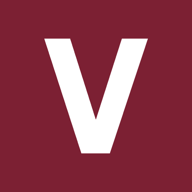
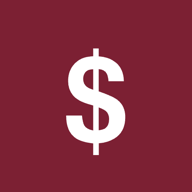
Rename to Money is Fun; add player cards, awards, and streaks
App is now Money is Fun (title, manifest, lock screen, new $ icon).
Home gets Clancy & Naomi player cards showing each one's fun-money left
with an 'in the lead' tag. New trophy button opens an Awards sheet with
ten earnable badges (snap counts, logging streaks, date nights, team
effort, under-budget months) computed live from the ledger. Saving a new
expense shows your logging streak.

Changed region(s): [[0.2188, 0.1875, 0.7812, 0.8125]]

diff --git a/index.html b/index.html
@@ -7,7 +7,7 @@
   <meta name="apple-mobile-web-app-capable" content="yes">
   <meta name="apple-mobile-web-app-status-bar-style" content="default">
   <meta name="theme-color" content="#FAF8F4">
-  <title>Velocity</title>
+  <title>Money is Fun</title>
   <link rel="manifest" href="/manifest.json">
   <link rel="apple-touch-icon" href="/icon-192.png">
   <link rel="preconnect" href="https://fonts.googleapis.com">
@@ -97,6 +97,29 @@
 
     .section-title { font-size: 13px; font-weight: 700; text-transform: uppercase; letter-spacing: 0.07em; color: var(--text-faint); margin: 22px 0 10px; display: flex; justify-content: space-between; align-items: center; }
     .section-title button { font-size: 12px; font-weight: 600; color: var(--wine); text-transform: none; letter-spacing: 0; }
+
+    /* Player cards */
+    .players { display: grid; grid-template-columns: 1fr 1fr; gap: 8px; margin-bottom: 18px; }
+    .player { background: var(--card); border-radius: var(--radius); padding: 12px 14px; text-align: left; box-shadow: 0 1px 2px rgba(0,0,0,0.04); min-width: 0; }
+    .player-head { display: flex; justify-content: space-between; align-items: baseline; }
+    .player-name { font-size: 12.5px; font-weight: 700; }
+    .player.clancy .player-name { color: var(--wine); }
+    .player.naomi .player-name { color: var(--naomi); }
+    .lead-tag { font-size: 9.5px; font-weight: 700; text-transform: uppercase; letter-spacing: 0.06em; color: var(--green); }
+    .player-fun { font-size: 20px; font-weight: 800; letter-spacing: -0.02em; margin: 2px 0 7px; }
+    .player-fun span { font-size: 11px; font-weight: 600; color: var(--text-faint); letter-spacing: 0; }
+    .player-sub { font-size: 11px; color: var(--text-faint); margin-top: 6px; }
+    .bar-fill.wine { background: var(--wine); }
+    .bar-fill.teal { background: var(--naomi); }
+
+    /* Awards */
+    .award-row { display: flex; align-items: center; gap: 14px; background: var(--card); border-radius: var(--radius); padding: 13px 16px; margin-bottom: 8px; box-shadow: 0 1px 2px rgba(0,0,0,0.04); }
+    .award-row.locked { opacity: 0.55; }
+    .award-medal { width: 38px; height: 38px; border-radius: 50%; flex-shrink: 0; display: flex; align-items: center; justify-content: center; background: var(--wine-soft); color: var(--wine); }
+    .award-row.locked .award-medal { background: var(--line); color: var(--text-faint); }
+    .award-name { font-size: 14.5px; font-weight: 700; }
+    .award-desc { font-size: 12px; color: var(--text-faint); margin-top: 1px; }
+    .award-prog { font-size: 11.5px; font-weight: 600; color: var(--text-mid); margin-left: auto; flex-shrink: 0; }
 
     /* Top-4 grid */
     .top-grid { display: grid; grid-template-columns: 1fr 1fr; gap: 8px; }
@@ -265,7 +288,7 @@
 
   <!-- Lock -->
   <div id="lock">
-    <div class="lock-logo">Velocity</div>
+    <div class="lock-logo">Money is Fun</div>
     <div class="lock-msg" id="lockMsg">Enter PIN</div>
     <div class="pin-dots" id="pinDots"></div>
     <div class="keypad" id="keypad"></div>
@@ -564,6 +587,29 @@ function renderHome() {
     return `<div class="top-card"><div class="top-name">${esc(c.replace('Biz: ', ''))}</div><div class="top-amt">${fmt0(spent)}</div>${bar}<div class="top-sub">${sub}</div></div>`;
   };
 
+  // Clancy & Naomi player cards — each one's fun-money budget this month
+  const playerCard = (p, cls, barCls) => {
+    const budget = state.budgets[`${p} Fun`] || 0;
+    const spentFun = txns.filter(t => t.category === `${p} Fun`).reduce((s, t) => s + Math.abs(t.amount), 0);
+    const left = Math.max(0, budget - spentFun);
+    const monthTotal = p === 'Clancy' ? cTotal : nTotal;
+    const pct = budget > 0 ? Math.min(100, spentFun / budget * 100) : 0;
+    return { p, cls, barCls, budget, spentFun, left, monthTotal, pct,
+      ratio: budget > 0 ? left / budget : 0 };
+  };
+  const pc = playerCard('Clancy', 'clancy', 'wine');
+  const pn = playerCard('Naomi', 'naomi', 'teal');
+  const leader = (pc.budget > 0 && pn.budget > 0 && pc.ratio !== pn.ratio)
+    ? (pc.ratio > pn.ratio ? 'Clancy' : 'Naomi') : null;
+  const playerHTML = d => `
+    <button class="player ${d.cls}" data-pfilter="${d.p}">
+      <div class="player-head"><div class="player-name">${d.p}</div>${leader === d.p ? '<div class="lead-tag">In the lead</div>' : ''}</div>
+      <div class="player-fun">${fmt0(d.left)} <span>fun left</span></div>
+      ${d.budget > 0 ? `<div class="bar" style="margin-top:0"><div class="bar-fill ${d.barCls}" style="width:${d.pct}%"></div></div>` : ''}
+      <div class="player-sub">${fmt0(d.monthTotal)} spent this month</div>
+    </button>`;
+  const playersHTML = `<div class="players">${playerHTML(pc)}${playerHTML(pn)}</div>`;
+
   const allHTML = groupSection('Personal', GROUPS.Personal) + groupSection('Business', GROUPS.Business);
   const catHTML = visible.size === 0
     ? `<div class="empty">Nothing yet this month.<br>Tap the camera to snap your first receipt.</div>`
@@ -575,10 +621,15 @@ function renderHome() {
 
   return `
     <div class="top-row">
-      <div class="brand">Velocity</div>
+      <div class="brand">Money is Fun</div>
+      <div style="display:flex">
+      <button class="icon-btn" id="btnAwards" aria-label="Awards">
+        <svg width="21" height="21" viewBox="0 0 24 24" fill="none" stroke="currentColor" stroke-width="2" stroke-linecap="round" stroke-linejoin="round"><circle cx="12" cy="8" r="6"/><path d="M15.477 12.89 17 22l-5-3-5 3 1.523-9.11"/></svg>
+      </button>
       <button class="icon-btn" id="btnSettings" aria-label="Settings">
         <svg width="21" height="21" viewBox="0 0 24 24" fill="none" stroke="currentColor" stroke-width="2" stroke-linecap="round" stroke-linejoin="round"><circle cx="12" cy="12" r="3"/><path d="M19.4 15a1.65 1.65 0 0 0 .33 1.82l.06.06a2 2 0 1 1-2.83 2.83l-.06-.06a1.65 1.65 0 0 0-1.82-.33 1.65 1.65 0 0 0-1 1.51V21a2 2 0 1 1-4 0v-.09a1.65 1.65 0 0 0-1-1.51 1.65 1.65 0 0 0-1.82.33l-.06.06a2 2 0 1 1-2.83-2.83l.06-.06a1.65 1.65 0 0 0 .33-1.82 1.65 1.65 0 0 0-1.51-1H3a2 2 0 1 1 0-4h.09a1.65 1.65 0 0 0 1.51-1 1.65 1.65 0 0 0-.33-1.82l-.06-.06a2 2 0 1 1 2.83-2.83l.06.06a1.65 1.65 0 0 0 1.82.33h.01a1.65 1.65 0 0 0 1-1.51V3a2 2 0 1 1 4 0v.09a1.65 1.65 0 0 0 1 1.51h.01a1.65 1.65 0 0 0 1.82-.33l.06-.06a2 2 0 1 1 2.83 2.83l-.06.06a1.65 1.65 0 0 0-.33 1.82v.01a1.65 1.65 0 0 0 1.51 1H21a2 2 0 1 1 0 4h-.09a1.65 1.65 0 0 0-1.51 1z"/></svg>
       </button>
+      </div>
     </div>
     ${personToggleHTML()}
     <div class="hero">
@@ -586,6 +637,7 @@ function renderHome() {
       <div class="hero-amount">${fmt(total)}</div>
       <div class="hero-split"><b class="c">Clancy ${fmt0(cTotal)}</b> &nbsp;·&nbsp; <b class="n">Naomi ${fmt0(nTotal)}</b>${bTotal > 0 ? ` &nbsp;·&nbsp; <b>Bills ${fmt0(bTotal)}</b>` : ''}</div>
     </div>
+    ${playersHTML}
     ${catHTML}
     ${recent ? `<div class="section-title">Recent</div>${recent}` : ''}
   `;
@@ -642,6 +694,12 @@ function bindContent() {
   const s = $('btnSettings'); if (s) s.onclick = openSettings;
   const bb = $('btnBudgets'); if (bb) bb.onclick = openBudgets;
   const ba = $('btnAll'); if (ba) ba.onclick = () => { state.showAll = !state.showAll; render(); };
+  const aw = $('btnAwards'); if (aw) aw.onclick = openAwards;
+  document.querySelectorAll('[data-pfilter]').forEach(b => b.onclick = () => {
+    state.filter = b.dataset.pfilter;
+    state.month = new Date().toISOString().slice(0, 7);
+    setScreen('history');
+  });
   const mp = $('mPrev'), mn = $('mNext');
   if (mp) mp.onclick = () => { state.month = shiftMonth(state.month, -1); state.filter = 'All'; render(); };
   if (mn) mn.onclick = () => { state.month = shiftMonth(state.month, 1); state.filter = 'All'; render(); };
@@ -785,10 +843,13 @@ function openConfirm(draft, photoId, existingId) {
         toast('Updated');
       } else {
         await api('transactions', { method: 'POST', body: JSON.stringify({ ...payload, photoId: photoId || null }) });
-        toast('Saved — ' + payload.category);
       }
       closeSheet();
       await loadData();
+      if (!existingId) {
+        const streak = calcStreak();
+        toast(streak >= 2 ? `Saved — ${streak}-day streak` : 'Saved — ' + payload.category.replace('Biz: ', ''));
+      }
       render();
     } catch (e) {
       $('btnSave').disabled = false;
@@ -814,6 +875,71 @@ function openDetail(id) {
   const t = state.txns.find(x => x.id === id);
   if (!t) return;
   openConfirm({ vendor: t.vendor, amount: Math.abs(t.amount), date: t.date, category: t.category, notes: t.notes, person: t.person }, t.photoId, t.id);
+}
+
+/* ── Awards ─────────────────────────────────────────────── */
+function calcStreak() {
+  const days = new Set(state.txns.filter(t => t.person !== 'Bills').map(t => t.date));
+  const iso = d => d.toISOString().slice(0, 10);
+  const d = new Date();
+  let streak = 0;
+  if (!days.has(iso(d))) d.setDate(d.getDate() - 1); // today not logged yet still counts a run ending yesterday
+  while (days.has(iso(d))) { streak++; d.setDate(d.getDate() - 1); }
+  return streak;
+}
+
+function calcAwards() {
+  const real = state.txns.filter(t => t.person !== 'Bills');
+  const n = real.length;
+  const nowM = new Date().toISOString().slice(0, 7);
+  const prevM = shiftMonth(nowM, -1);
+  const inM = (t, m) => t.date && t.date.startsWith(m);
+  const spent = (m, cat) => state.txns
+    .filter(t => inM(t, m) && (!cat || t.category === cat))
+    .reduce((s, t) => s + Math.abs(t.amount), 0);
+  const budgetTotal = Object.values(state.budgets).reduce((s, v) => s + v, 0);
+  const prevHasData = state.txns.some(t => inM(t, prevM));
+  const streak = calcStreak();
+  const datesNow = real.filter(t => inM(t, nowM) && t.category === 'Dates').length;
+  const cNow = real.filter(t => inM(t, nowM) && t.person === 'Clancy').length;
+  const nNow = real.filter(t => inM(t, nowM) && t.person === 'Naomi').length;
+  const groBudget = state.budgets['Groceries'] || 0;
+
+  return [
+    { name: 'First Snap', desc: 'Log your first expense', earned: n >= 1, prog: `${Math.min(n, 1)}/1` },
+    { name: 'Ten In', desc: 'Log 10 expenses', earned: n >= 10, prog: `${Math.min(n, 10)}/10` },
+    { name: 'Fifty Club', desc: 'Log 50 expenses', earned: n >= 50, prog: `${Math.min(n, 50)}/50` },
+    { name: 'Century', desc: 'Log 100 expenses', earned: n >= 100, prog: `${Math.min(n, 100)}/100` },
+    { name: 'Three-Day Streak', desc: 'Log something 3 days in a row', earned: streak >= 3, prog: `${Math.min(streak, 3)}/3 days` },
+    { name: 'Week Streak', desc: 'Seven days in a row', earned: streak >= 7, prog: `${Math.min(streak, 7)}/7 days` },
+    { name: 'Date Night Regulars', desc: 'Four date nights in one month', earned: datesNow >= 4, prog: `${Math.min(datesNow, 4)}/4 this month` },
+    { name: 'Team Effort', desc: 'You each log 5+ in a month', earned: cNow >= 5 && nNow >= 5, prog: `C ${Math.min(cNow, 5)}/5 · N ${Math.min(nNow, 5)}/5` },
+    { name: 'Grocery Guru', desc: 'A full month with groceries under budget', earned: prevHasData && groBudget > 0 && spent(prevM, 'Groceries') <= groBudget, prog: prevHasData ? `${fmt0(spent(prevM, 'Groceries'))} of ${fmt0(groBudget)} last month` : 'Needs a full month' },
+    { name: 'Clean Month', desc: 'Finish a whole month under total budget', earned: prevHasData && budgetTotal > 0 && spent(prevM) <= budgetTotal, prog: prevHasData ? `${fmt0(spent(prevM))} of ${fmt0(budgetTotal)} last month` : 'Needs a full month' },
+  ];
+}
+
+function openAwards() {
+  const awards = calcAwards();
+  const earned = awards.filter(a => a.earned);
+  const medal = `<svg width="19" height="19" viewBox="0 0 24 24" fill="none" stroke="currentColor" stroke-width="2" stroke-linecap="round" stroke-linejoin="round"><circle cx="12" cy="8" r="6"/><path d="M15.477 12.89 17 22l-5-3-5 3 1.523-9.11"/></svg>`;
+  const row = a => `
+    <div class="award-row ${a.earned ? '' : 'locked'}">
+      <div class="award-medal">${medal}</div>
+      <div style="min-width:0">
+        <div class="award-name">${esc(a.name)}</div>
+        <div class="award-desc">${esc(a.desc)}</div>
+      </div>
+      <div class="award-prog">${a.earned ? 'Earned' : esc(a.prog)}</div>
+    </div>`;
+  const streak = calcStreak();
+  openSheet(`
+    <div class="sheet-title">Awards</div>
+    <div style="font-size:13px;color:var(--text-mid);margin-bottom:14px">${earned.length} of ${awards.length} earned${streak >= 2 ? ` · ${streak}-day logging streak` : ''}</div>
+    ${awards.map(row).join('')}
+    <button class="btn-ghost" id="btnCloseAwards">Close</button>
+  `);
+  $('btnCloseAwards').onclick = closeSheet;
 }
 
 /* Budgets editor */
@@ -914,7 +1040,7 @@ function openSettings() {
       <svg width="22" height="22" viewBox="0 0 24 24" fill="none" stroke="currentColor" stroke-width="2" stroke-linecap="round" stroke-linejoin="round"><path d="M9 21H5a2 2 0 0 1-2-2V5a2 2 0 0 1 2-2h4"/><polyline points="16 17 21 12 16 7"/><line x1="21" y1="12" x2="9" y2="12"/></svg>
       Lock app
     </button>
-    <div style="text-align:center;font-size:12px;color:var(--text-faint);margin-top:12px">Velocity · Booher family budget</div>
+    <div style="text-align:center;font-size:12px;color:var(--text-faint);margin-top:12px">Money is Fun · Booher family budget</div>
   `);
   $('optRecurring').onclick = () => { closeSheet(); openRecurring(); };
   $('optBudgets2').onclick = () => { closeSheet(); openBudgets(); };

diff --git a/README.md b/README.md
@@ -1,8 +1,9 @@
-# Velocity — Booher family budget
+# Money is Fun — Booher family budget
 
-Dead-simple expense tracker for Clancy & Naomi. Snap a receipt (or a photo of
-the thing you bought), the AI reads it, you tap Save. One shared ledger, each
-expense tagged Clancy or Naomi.
+Dead-simple expense tracker for Clancy & Naomi (formerly "Velocity"; repo name
+kept). Snap a receipt (or a photo of the thing you bought), the AI reads it,
+you tap Save. One shared ledger, each expense tagged Clancy or Naomi, with
+player cards, awards, and logging streaks to keep it fun.
 
 **Live app:** deployed on Cloudflare Pages from this repo (push to `main` deploys).
 
